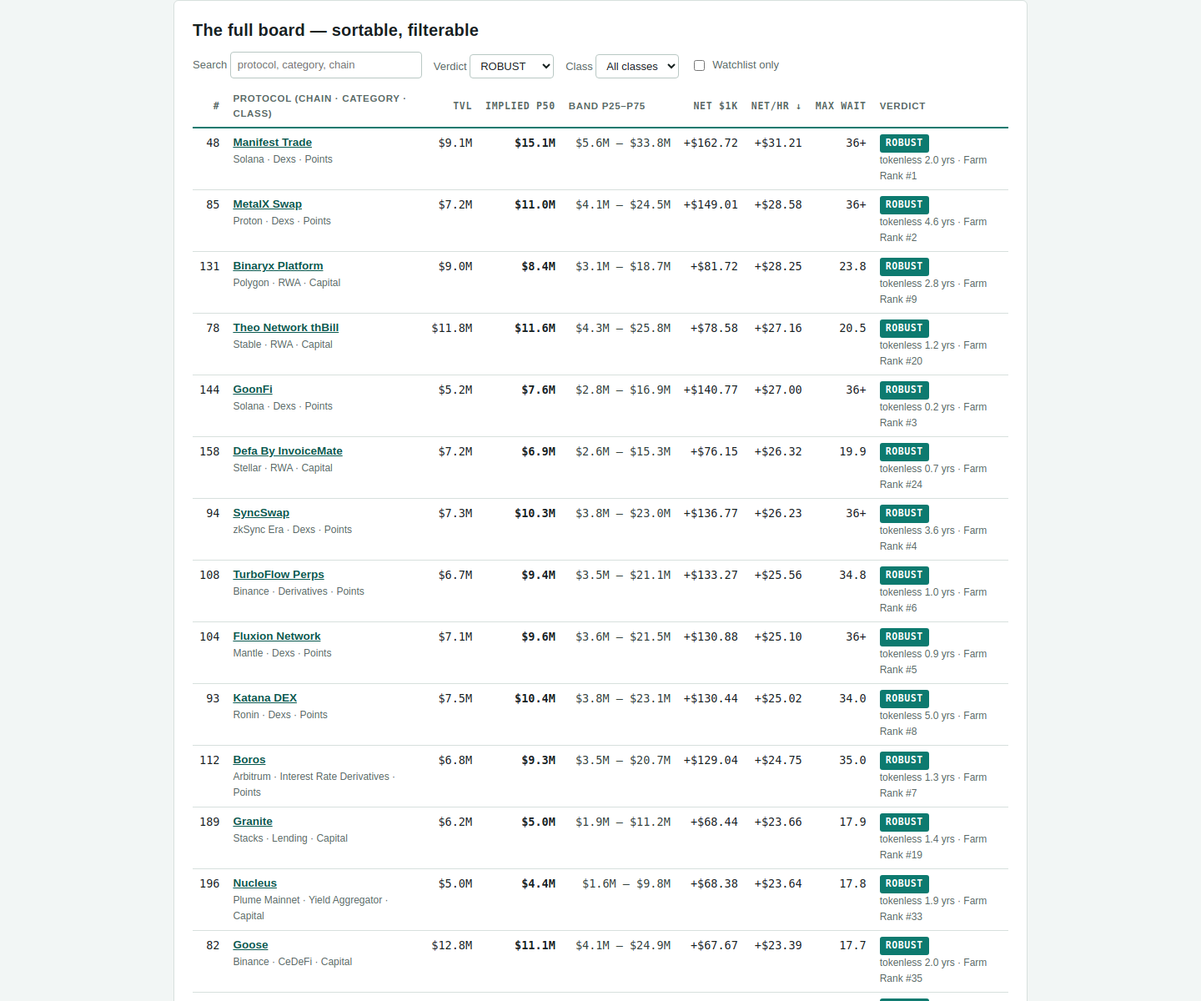
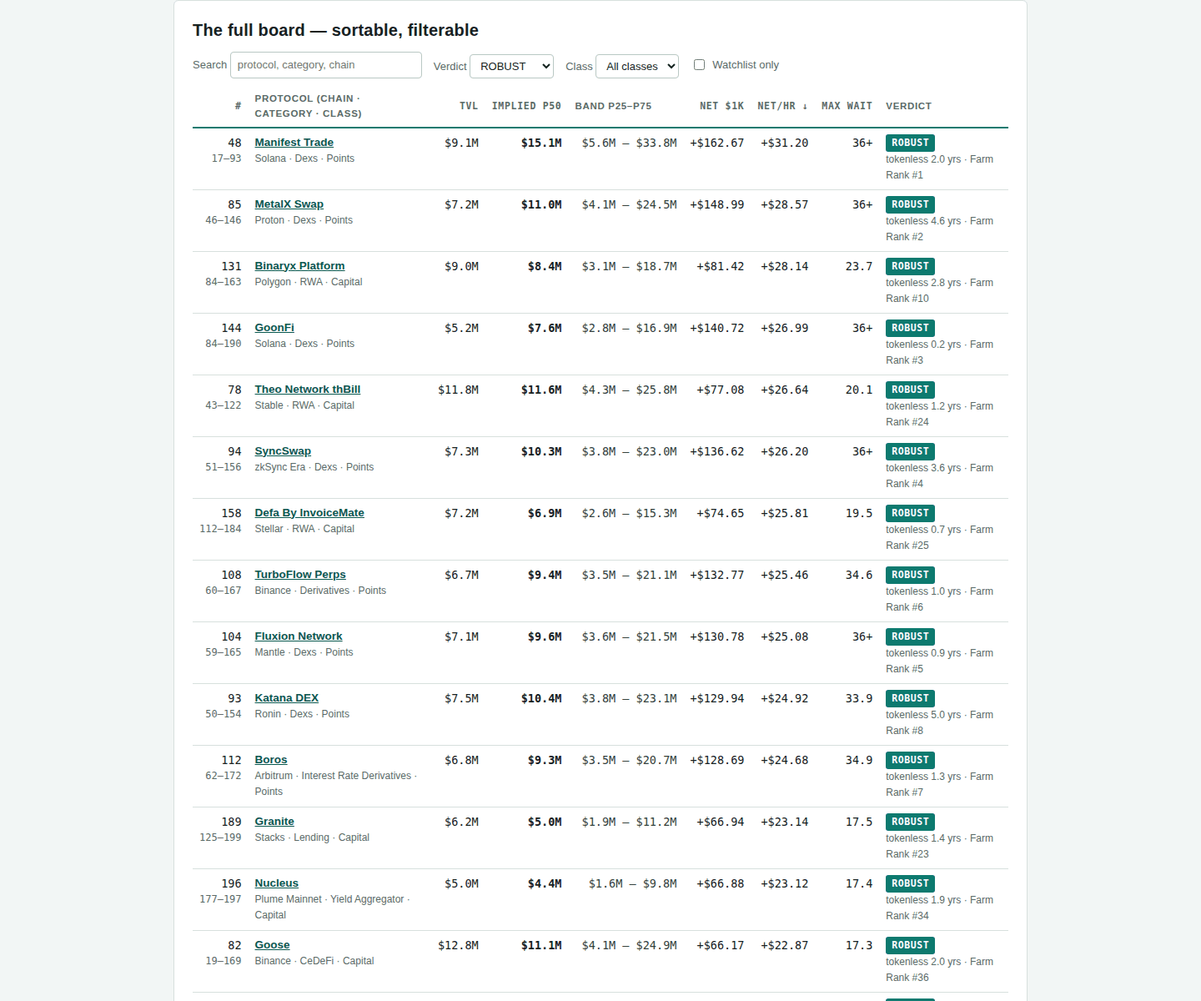
Token Launch Radar v3 candidate (judge test only, not submitted)
- Farm netting: maintenance gas, 1 action per 30 days of hold (Capital +3,
  Hybrid +2, Points +1); verdicts 91/53/19/37 -> 88/44/19/49, basket +$563.96
- Cohort band hold rate reported: 50% P25-P75, 78% P10-P90 out-of-sample
- Bootstrap rank ranges (200 seeded refits) on every row
- Board-first cover: KPI strip + top-12 table before the model essay
- Model frozen: alpha 4.44, beta 0.353, LOO x2.54, cohort x2.18 (== v2)
- Screenshots retaken at 1440x1200, palette-optimized; dossier 512,709 bytes
- verify.mjs updated for the maintenance cost line + rank-range check
- Build is deterministic (two runs byte-identical incl. dossier.json)

diff --git a/lib/panels.ts b/lib/panels.ts
@@ -7,7 +7,7 @@
 // ever disagree.
 
 import type { Radar, RadarRow } from './model.ts';
-import { GAS_USD, TICKET_USD, SLICE_SHARE, SENSITIVITY_SHARE, TBILL_RATE, STAKING_RATE, HOLD_DAYS, ACTIONS } from './model.ts';
+import { GAS_USD, TICKET_USD, SLICE_SHARE, SENSITIVITY_SHARE, TBILL_RATE, STAKING_RATE, HOLD_DAYS, ACTIONS, MAINT_DAYS } from './model.ts';
 
 export const esc = (s: string): string => s.replace(/&/g, '&amp;').replace(/</g, '&lt;').replace(/>/g, '&gt;');
 export const fmt$ = (n: number): string => (n >= 1e9 ? `$${(n / 1e9).toFixed(2)}B` : n >= 1e6 ? `$${(n / 1e6).toFixed(1)}M` : n >= 1e3 ? `$${(n / 1e3).toFixed(1)}K` : `$${Math.round(n)}`);
@@ -40,6 +40,24 @@ function scatterSvg(r: Radar): string {
 <text x="${L}" y="${H - 8}" class="ax"></text></svg>`;
 }
 
+/** v3: the dense KPI strip that opens the page — the board's headline numbers before any essay. */
+export function kpiStrip(r: Radar): string {
+  const m = r.model;
+  const full = m.loo[m.loo.length - 1]!;
+  const flat = m.loo[0]!;
+  const cells: [string, string][] = [
+    [`${r.counts.ranked}`, 'ranked'],
+    [`${r.counts.audited}`, 'audited'],
+    [`${r.counts.watchlist}/${r.counts.watchlist}`, 'watchlist'],
+    [`${r.verdicts.ROBUST}`, 'ROBUST farms'],
+    [fmtSigned$(r.basket.total_net), 'Starter Basket net'],
+    [`${fmtMiss(full.median_miss)}`, 'LOO median miss'],
+    [`${fmtMiss(flat.median_miss)}`, 'flat multiple'],
+    [`${fmtMiss(m.cohort.model_miss)}`, 'cohort miss'],
+  ];
+  return `<section class="panel kpi" id="kpi"><div class="kpirow">${cells.map(([v, l]) => `<span class="kpi"><strong>${v}</strong> ${l}</span>`).join('')}</div></section>`;
+}
+
 export function modelPanel(r: Radar): string {
   const m = r.model;
   const trimmed = m.trimmed.length > 0 ? ` One robust trim (residual beyond 2.5 robust sigmas, iterated) removed ${m.trimmed.map(esc).join(' and ')}.` : '';
@@ -64,6 +82,8 @@ export function validationPanel(r: Radar): string {
 <h2>Does it backtest?</h2>
 <table class="mini"><thead><tr><th>Leave-one-out, ${m.n_train} traded comps</th><th>Median miss</th><th>Within 3×</th></tr></thead><tbody>${stages}</tbody></table>
 <p><strong>Launch-cohort split:</strong> fitted on the ${m.cohort.train_n} comps listed before 2024, tested on the ${m.cohort.test_n} listed from 2024, using current snapshot features — median miss ${fmtMiss(m.cohort.model_miss)} for the full model against ${fmtMiss(m.cohort.flat_miss)} for the flat multiple (${fmtPct(m.cohort.model_in3)} against ${fmtPct(m.cohort.flat_in3)} within 3×). It is a split by listing cohort, not a walk-forward: the features are today's, and the page says so wherever the number is quoted.</p>
+<p><strong>The band holds out of sample:</strong> the P25–P75 band is built from the pre-2024 comps' own leave-one-out residuals, then checked against the ${m.cohort.test_n} comps listed from 2024 — ${fmtPct(m.cohort.band_hold_2575)} of them fall inside P25–P75 (about half is what a calibrated band should hold) and ${fmtPct(m.cohort.band_hold_1090)} inside P10–P90 (about four in five). The P25 end the farms are netted on is a measured band end, not an optimistic guess: it held on comps the band never saw.</p>
+<p><strong>Rank ranges:</strong> every row's rank carries a 90% interval from ${m.rank_bootstrap_refits} bootstrap refits of the frozen model form (same stage and gate outcome, only the comp set resampled, seeded and reproducible). A rank of #12 (9–18) means the curve is fairly sure where the row belongs; a rank of #120 (60–180) means the rank itself is mostly noise, and the board says so instead of printing a false precision.</p>
 <p><strong>The band:</strong> every row carries P25–P75 = point value ×${Math.pow(10, m.band_dex.q25).toFixed(2)} to ×${Math.pow(10, m.band_dex.q75).toFixed(2)}, the middle half of the leave-one-out residuals. The flat multiple's median miss is ${fmtMiss(flat.median_miss)}; the full model's is ${fmtMiss(full.median_miss)}.</p>
 <p><strong>Verdicts on this board:</strong> ${r.verdicts.ROBUST} ROBUST · ${r.verdicts.FARM} FARM · ${r.verdicts.THIN} THIN · ${r.verdicts.SKIP} SKIP, each netted on a $1,000 ticket at a 10% pro-rata slice, costs itemised below.</p>
 </section>`;
@@ -85,7 +105,7 @@ export function basketStrip(r: Radar): string {
 function rowLine(x: RadarRow): string {
   const verdict = x.farm.robust ? 'ROBUST' : x.farm.verdict;
   return `<tr>
-<td class="num">${x.rank}</td>
+<td class="num">${x.rank}<span class="sub">${x.rank_lo}–${x.rank_hi}</span></td>
 <td><a href="#p=${esc(x.slug)}"><strong>${esc(x.name)}</strong></a><span class="sub">${esc(x.chain)} · ${esc(x.category ?? '')}</span></td>
 <td class="num">${fmt$(x.tvl_usd)}</td>
 <td class="num"><strong>${fmt$(x.implied_value_usd)}</strong></td>
@@ -102,7 +122,7 @@ export function topTable(r: Radar): string {
   return `<section class="panel" id="top12">
 <h2>The board — top 12 of ${r.counts.ranked}</h2>
 ${head}<tbody>${r.rows.slice(0, 12).map(rowLine).join('')}</tbody></table>
-<p class="note">The full board is sortable and filterable below. Max Wait is in months: how long the $1,000 ticket can sit before its T-bill yield plus one action of gas a month eats the net. ROBUST means the net survives at the P25 end of the band.</p>
+<p class="note">The full board is sortable and filterable below. The small range under each rank is its 90% bootstrap interval (${r.model.rank_bootstrap_refits} refits): #12 (9–18) is a rank the curve is fairly sure of. Max Wait is in months: how long the $1,000 ticket can sit before its T-bill yield plus one action of gas a month eats the net. ROBUST means the net survives at the P25 end of the band.</p>
 </section>`;
 }
 
@@ -126,7 +146,7 @@ export function steakhouseDetail(r: Radar): string {
 <h3>Red flags, from the snapshot only</h3>
 <ul class="flags">${flags}</ul>
 <h3>The farm, netted</h3>
-<p>Class: <strong>${f.cls}-weighted</strong> · hold ${f.hold_days} days · slice at 10% pro-rata: $${f.slice.toFixed(2)} · costs: gas $${f.costs.gas.toFixed(2)}, fees $${f.costs.fees.toFixed(2)}, bridge $${f.costs.bridge.toFixed(2)}, forgone yield $${f.costs.opportunity.toFixed(2)} · <strong>net ${fmtSigned$(f.net)}</strong> (${fmtSigned$(f.net_hr)}/hr) · at P25: ${fmtSigned$(f.net_p25)} · verdict <span class="verdict v-${(f.robust ? 'robust' : f.verdict.toLowerCase())}">${f.robust ? 'ROBUST' : f.verdict}</span> · break-even launch value ${fmtFull$(f.break_even_value)} · at a 5% slice instead of 10%, the net would be ${fmtSigned$(f.net_sensitivity)}.</p>
+<p>Class: <strong>${f.cls}-weighted</strong> · hold ${f.hold_days} days · slice at 10% pro-rata: $${f.slice.toFixed(2)} · costs: gas $${f.costs.gas.toFixed(2)}, maintenance gas $${f.costs.maintenance.toFixed(2)} (${f.maint_actions} actions over the hold), fees $${f.costs.fees.toFixed(2)}, bridge $${f.costs.bridge.toFixed(2)}, forgone yield $${f.costs.opportunity.toFixed(2)} · <strong>net ${fmtSigned$(f.net)}</strong> (${fmtSigned$(f.net_hr)}/hr) · at P25: ${fmtSigned$(f.net_p25)} · verdict <span class="verdict v-${(f.robust ? 'robust' : f.verdict.toLowerCase())}">${f.robust ? 'ROBUST' : f.verdict}</span> · break-even launch value ${fmtFull$(f.break_even_value)} · at a 5% slice instead of 10%, the net would be ${fmtSigned$(f.net_sensitivity)}.</p>
 <ol class="steps">${x.farm_steps.map((s) => `<li>${esc(s)}</li>`).join('')}</ol>
 </section>`;
 }
@@ -172,7 +192,7 @@ export function assumptionsBox(): string {
     .map(([chain, usd]) => `${esc(chain)} $${usd.toFixed(2)}`).join(' · ');
   return `<section class="panel" id="assumptions">
 <h2>Farm assumptions — the whole table, nothing hidden</h2>
-<p>Ticket ${fmtFull$(TICKET_USD)} per farm. Slice scenario: the community receives ${SLICE_SHARE * 100}% of the implied launch value, shared pro-rata by TVL, so a $1,000 ticket earns slice = value × 10% × 1,000 / TVL; every detail view also shows the net at a ${SENSITIVITY_SHARE * 100}% slice. Holds: Capital ${HOLD_DAYS.Capital} days · Hybrid ${HOLD_DAYS.Hybrid} · Points ${HOLD_DAYS.Points}. Actions charged: Capital ${ACTIONS.Capital} · Hybrid ${ACTIONS.Hybrid} · Points ${ACTIONS.Points}. Gas per action: ${gasRows} · any other chain $0.50. Protocol fees: $1 Capital, $2 Hybrid, $0 Points. Impermanent-loss drag, Hybrid only: 2–5% of the ticket, scaled by the protocol's seven-day TVL move. Bridge: $4.00 plus a 0.25% risk charge when a Capital or Hybrid plan spans three or more chains. Forgone yield: ${(TBILL_RATE * 100).toFixed(0)}% T-bill on the ticket for the hold, ${(STAKING_RATE * 100).toFixed(0)}% where the position itself is a staking asset. Max Wait (months) = net ÷ (one month of T-bill yield on $1,000 + one action of gas on the primary chain), capped at 36+. Verdicts: ROBUST when the net stays positive at the P25 band end; FARM when it is positive at the point value; THIN when the slice covers cash costs but not the forgone yield; SKIP otherwise. Farm Rank orders by net per hour at P25.</p>
+<p>Ticket ${fmtFull$(TICKET_USD)} per farm. Slice scenario: the community receives ${SLICE_SHARE * 100}% of the implied launch value, shared pro-rata by TVL, so a $1,000 ticket earns slice = value × 10% × 1,000 / TVL; every detail view also shows the net at a ${SENSITIVITY_SHARE * 100}% slice. Holds: Capital ${HOLD_DAYS.Capital} days · Hybrid ${HOLD_DAYS.Hybrid} · Points ${HOLD_DAYS.Points}. Actions charged: Capital ${ACTIONS.Capital} setup + ${Math.ceil(HOLD_DAYS.Capital / MAINT_DAYS)} maintenance · Hybrid ${ACTIONS.Hybrid} + ${Math.ceil(HOLD_DAYS.Hybrid / MAINT_DAYS)} · Points ${ACTIONS.Points} + ${Math.ceil(HOLD_DAYS.Points / MAINT_DAYS)} — one maintenance action per ${MAINT_DAYS} days of hold, at the primary chain's gas price, because the plan's own steps charge gas for acting on a weekly check. Gas per action: ${gasRows} · any other chain $0.50. Protocol fees: $1 Capital, $2 Hybrid, $0 Points. Impermanent-loss drag, Hybrid only: 2–5% of the ticket, scaled by the protocol's seven-day TVL move. Bridge: $4.00 plus a 0.25% risk charge when a Capital or Hybrid plan spans three or more chains. Forgone yield: ${(TBILL_RATE * 100).toFixed(0)}% T-bill on the ticket for the hold, ${(STAKING_RATE * 100).toFixed(0)}% where the position itself is a staking asset. Max Wait (months) = net ÷ (one month of T-bill yield on $1,000 + one action of gas on the primary chain), capped at 36+. Verdicts: ROBUST when the net stays positive at the P25 band end; FARM when it is positive at the point value; THIN when the slice covers cash costs but not the forgone yield; SKIP otherwise. Farm Rank orders by net per hour at P25.</p>
 </section>`;
 }
 
@@ -181,6 +201,7 @@ export function indexTokens(r: Radar): Record<string, string> {
   return {
     '%%TITLE%%': `Token Launch Radar — radar-3: ${r.counts.ranked} pre-token protocols priced by a fitted size curve (LOO ${fmtMiss(r.model.loo[r.model.loo.length - 1]!.median_miss)} vs flat ${fmtMiss(r.model.loo[0]!.median_miss)}), ${r.verdicts.ROBUST} ROBUST farms netted on $1,000`,
     '%%HEADER_COUNTS%%': `${r.counts.ranked} ranked · ${r.counts.audited} audited · ${r.counts.watchlist}/${r.counts.watchlist} watchlist · snapshot ${esc(r.as_of)}`,
+    '%%KPI_STRIP%%': kpiStrip(r),
     '%%MODEL_PANEL%%': modelPanel(r),
     '%%VALIDATION_PANEL%%': validationPanel(r),
     '%%BASKET_STRIP%%': basketStrip(r),

diff --git a/lib/model.ts b/lib/model.ts
@@ -307,6 +307,11 @@ export const STAKING_RATE = 0.03;
 const STAKING_YIELD_CATEGORIES = new Set(['Staking Pool', 'Restaking', 'Liquid Restaking', 'Restaked BTC', 'Anchor BTC', 'Decentralized BTC']);
 export const HOLD_DAYS: Record<MechClass, number> = { Capital: 90, Hybrid: 60, Points: 30 };
 export const ACTIONS: Record<MechClass, number> = { Capital: 4, Hybrid: 6, Points: 10 };
+/** v3: one maintenance action per 30 days of hold, charged at the primary chain's gas price.
+ *  The farm steps already say acting on a weekly check costs gas; v2 charged only the setup
+ *  actions, so the plan's own text named a cost its net never paid. One action a month is
+ *  the stated rate: a farmer looks weekly and acts about monthly. */
+export const MAINT_DAYS = 30;
 export const SETUP_MINUTES: Record<MechClass, number> = { Capital: 45, Hybrid: 90, Points: 120 };
 export const WEEKLY_MINUTES: Record<MechClass, number> = { Capital: 10, Hybrid: 25, Points: 45 };
 const PROTOCOL_FEE: Record<MechClass, number> = { Capital: 1, Hybrid: 2, Points: 0 };
@@ -317,7 +322,7 @@ export interface FarmCalc {
   hold_days: number;
   slice: number;
   slice_p25: number;
-  costs: { gas: number; fees: number; il: number; bridge: number; opportunity: number; total: number; cash_total: number };
+  costs: { gas: number; fees: number; il: number; bridge: number; opportunity: number; maintenance: number; total: number; cash_total: number };
   net: number;
   net_p25: number;
   net_hr: number;
@@ -329,6 +334,7 @@ export interface FarmCalc {
   robust: boolean;
   setup_minutes: number;
   weekly_minutes: number;
+  maint_actions: number;
   hours: number;
 }
 
@@ -344,7 +350,9 @@ function farmCalc(p: Protocol, value: number, bandLoMult: number): FarmCalc {
   const bridge = p.chains.length >= 3 && cls !== 'Points' ? 4 + 0.0025 * TICKET_USD : 0;
   const oppRate = STAKING_YIELD_CATEGORIES.has(p.category ?? '') ? STAKING_RATE : TBILL_RATE;
   const opportunity = (TICKET_USD * oppRate * hold) / 365;
-  const cashTotal = gas + fees + il + bridge;
+  const maintActions = Math.ceil(hold / MAINT_DAYS);
+  const maintenance = maintActions * gasOf(chain);
+  const cashTotal = gas + fees + il + bridge + maintenance;
   const total = cashTotal + opportunity;
   const net = slice - total;
   const netP25 = sliceP25 - total;
@@ -353,13 +361,13 @@ function farmCalc(p: Protocol, value: number, bandLoMult: number): FarmCalc {
   const verdict: FarmCalc['verdict'] = net > 0 ? 'FARM' : slice > cashTotal ? 'THIN' : 'SKIP';
   return {
     cls, chain, hold_days: hold, slice, slice_p25: sliceP25,
-    costs: { gas, fees, il, bridge, opportunity, total, cash_total: cashTotal },
+    costs: { gas, fees, il, bridge, opportunity, maintenance, total, cash_total: cashTotal },
     net, net_p25: netP25, net_hr: net / hours, net_hr_p25: netP25 / hours,
     net_sensitivity: (value * SENSITIVITY_SHARE * TICKET_USD) / p.tvl_usd - total,
     break_even_value: (total * p.tvl_usd) / (SLICE_SHARE * TICKET_USD),
     max_wait_months: net > 0 ? net / ((TICKET_USD * TBILL_RATE) / 12 + gasOf(chain)) : 0,
     verdict, robust,
-    setup_minutes: SETUP_MINUTES[cls], weekly_minutes: WEEKLY_MINUTES[cls], hours,
+    setup_minutes: SETUP_MINUTES[cls], weekly_minutes: WEEKLY_MINUTES[cls], maint_actions: maintActions, hours,
   };
 }
 
@@ -441,6 +449,8 @@ export interface RadarRow extends BoardRow {
   band_p10: number;
   band_p90: number;
   farm_rank: number;
+  rank_lo: number;
+  rank_hi: number;
   divergence: number;
   farm: FarmCalc;
   peers: { name: string; tvl_usd: number; mcap_usd: number }[] | null;
@@ -463,7 +473,8 @@ export interface Radar {
     families: { family: string; n: number; offset: number }[];
     band_dex: { q10: number; q25: number; q75: number; q90: number };
     loo: { stage: string; median_miss: number; in3: number; in10: number }[];
-    cohort: { train_n: number; test_n: number; flat_miss: number; model_miss: number; flat_in3: number; model_in3: number; stage2_miss: number; stage2_in3: number };
+    cohort: { train_n: number; test_n: number; flat_miss: number; model_miss: number; flat_in3: number; model_in3: number; stage2_miss: number; stage2_in3: number; band_hold_2575: number; band_hold_1090: number };
+    rank_bootstrap_refits: number;
     worst: { name: string; miss: number; predicted: number; actual: number }[];
     buckets: { label: string; n: number; q25: number; q75: number }[];
     gates: { factor: string; coef: string; loo_improvement: number; cohort_sign: string; bootstrap: number; passed: boolean }[];
@@ -599,6 +610,32 @@ export function buildRadar(snapshot: Snapshot): { board: BoardRow[]; radar: Rada
   const cohortFlatR = cohortMiss(cohortFlat, 0);
   const cohortStage2 = cohortMiss(fitStage(preCohort, 2, medianChange, asOfMs, tradedRoots), 2);
 
+  // v3: out-of-sample band hold rate. The band's quartiles are built from the pre-2024 comps'
+  // own leave-one-out residuals, then the post-2024 comps are checked against that band — so
+  // this is a genuine out-of-sample calibration test of the P25 the farms are netted on, not a
+  // restatement of the in-sample quantiles (which hold ~50% by construction).
+  const preLooPred: number[] = [];
+  for (let i = 0; i < preCohort.length; i++) {
+    const rest = preCohort.filter((_, j) => j !== i);
+    const f = fitStage(rest, finalStage, medianChange, asOfMs, tradedRoots);
+    let v = predictStage(f, preCohort[i]!, finalStage, medianChange, asOfMs, gated.breadth);
+    if (finalStage >= 4 && gated.kinship && hasTradedNamesake(preCohort[i]!, tradedRoots)) v *= Math.pow(10, f.kinshipCoef);
+    preLooPred.push(v);
+  }
+  const preLooResid = preCohort.map((p, i) => Math.log10(preLooPred[i]! / p.mcap_usd!));
+  const holdQ25 = quantile(preLooResid, 0.25), holdQ75 = quantile(preLooResid, 0.75);
+  const holdQ10 = quantile(preLooResid, 0.1), holdQ90 = quantile(preLooResid, 0.9);
+  let hold2575 = 0, hold1090 = 0;
+  for (const p of postCohort) {
+    let v = predictStage(cohortFit, p, finalStage, medianChange, asOfMs, gated.breadth);
+    if (finalStage >= 4 && gated.kinship && hasTradedNamesake(p, tradedRoots)) v *= Math.pow(10, cohortFit.kinshipCoef);
+    const r = Math.log10(p.mcap_usd! / v);
+    if (r >= holdQ25 && r <= holdQ75) hold2575++;
+    if (r >= holdQ10 && r <= holdQ90) hold1090++;
+  }
+  const bandHold2575 = postCohort.length === 0 ? 0 : hold2575 / postCohort.length;
+  const bandHold1090 = postCohort.length === 0 ? 0 : hold1090 / postCohort.length;
+
   // Price the board.
   const fit = fitStage(train, finalStage, medianChange, asOfMs, tradedRoots);
   const bandLoMult = Math.pow(10, bandDex.q25);
@@ -619,12 +656,38 @@ export function buildRadar(snapshot: Snapshot): { board: BoardRow[]; radar: Rada
       watchlist: watch.has(p.slug),
       band_p25: Math.round(value * bandLoMult), band_p75: Math.round(value * Math.pow(10, bandDex.q75)),
       band_p10: Math.round(value * Math.pow(10, bandDex.q10)), band_p90: Math.round(value * Math.pow(10, bandDex.q90)),
-      farm_rank: 0, divergence: 0, farm, peers: null, waterfall: null, flags: null,
+      farm_rank: 0, rank_lo: 0, rank_hi: 0, divergence: 0, farm, peers: null, waterfall: null, flags: null,
     };
   });
   // Farm Rank: by net per hour at the band's low end (P25), best first.
   const byFarm = [...rows].sort((a, b) => b.farm.net_hr_p25 - a.farm.net_hr_p25 || (a.slug < b.slug ? -1 : 1));
   byFarm.forEach((r, i) => { r.farm_rank = i + 1; r.divergence = r.rank - r.farm_rank; });
+
+  // v3: bootstrap rank ranges. 200 seeded refits of the frozen model form (same stage and gate
+  // outcome, only the comp set resampled); each refit re-prices every board row, and a row's
+  // rank_lo/rank_hi are the 5th/95th percentiles of its 200 refit ranks. A tight range means
+  // the curve is sure where the row belongs; a wide one means the rank is mostly noise.
+  const RANK_BOOTSTRAP_REFITS = 200;
+  const rankSamples = new Map<string, number[]>();
+  for (const r of rows) rankSamples.set(r.slug, []);
+  {
+    const rnd = mulberry32(20261118);
+    for (let b = 0; b < RANK_BOOTSTRAP_REFITS; b++) {
+      const sample = Array.from({ length: train.length }, () => train[Math.floor(rnd() * train.length)]!);
+      const f = fitStage(sample, finalStage, medianChange, asOfMs, tradedRoots);
+      const pricedB = pool.map((p) => {
+        let v = predictStage(f, p, finalStage, medianChange, asOfMs, gated.breadth);
+        if (finalStage >= 4 && gated.kinship && hasTradedNamesake(p, tradedRoots)) v *= Math.pow(10, f.kinshipCoef);
+        return { slug: p.slug, v };
+      }).sort((a, b2) => b2.v - a.v || (a.slug < b2.slug ? -1 : 1));
+      pricedB.forEach((x, i) => { rankSamples.get(x.slug)!.push(i + 1); });
+    }
+  }
+  for (const r of rows) {
+    const rs = rankSamples.get(r.slug)!;
+    r.rank_lo = Math.max(1, Math.round(quantile(rs, 0.05)));
+    r.rank_hi = Math.min(rows.length, Math.round(quantile(rs, 0.95)));
+  }
 
   // Asymmetric depth for the 40 watchlist rows: peers, waterfall, flags.
   for (const row of rows) {
@@ -718,7 +781,8 @@ export function buildRadar(snapshot: Snapshot): { board: BoardRow[]; radar: Rada
       n_candidates: nCandidates, n_train: train.length, trimmed,
       median_change_7d: medianChange, families: famSummary, band_dex: bandDex,
       loo: looStages,
-      cohort: { train_n: preCohort.length, test_n: postCohort.length, flat_miss: cohortFlatR.medianMiss, model_miss: cohortModel.medianMiss, flat_in3: cohortFlatR.in3, model_in3: cohortModel.in3, stage2_miss: cohortStage2.medianMiss, stage2_in3: cohortStage2.in3 },
+      cohort: { train_n: preCohort.length, test_n: postCohort.length, flat_miss: cohortFlatR.medianMiss, model_miss: cohortModel.medianMiss, flat_in3: cohortFlatR.in3, model_in3: cohortModel.in3, stage2_miss: cohortStage2.medianMiss, stage2_in3: cohortStage2.in3, band_hold_2575: bandHold2575, band_hold_1090: bandHold1090 },
+      rank_bootstrap_refits: RANK_BOOTSTRAP_REFITS,
       worst, buckets, gates,
     },
     verdicts,

diff --git a/dashboard/app.js b/dashboard/app.js
@@ -42,7 +42,7 @@ function renderBoard() {
   const th = (k, label, num) => `<th class="sortable${num ? ' num' : ''}" data-sort="${k}">${label}${arrow(k)}</th>`;
   const body = list.map((r) => {
     const v = verdictOf(r);
-    return `<tr><td class="num">${r.rank}</td>
+    return `<tr><td class="num">${r.rank}<span class="sub">${r.rank_lo}–${r.rank_hi}</span></td>
 <td><a href="#p=${esc(r.slug)}"><strong>${esc(r.name)}</strong></a>${r.watchlist ? ' ★' : ''}<span class="sub">${esc(r.chain)} · ${esc(r.category ?? '')} · ${esc(r.farm.cls)}</span></td>
 <td class="num">${fmt$(r.tvl_usd)}</td><td class="num"><strong>${fmt$(r.implied_value_usd)}</strong></td>
 <td class="num band">${fmt$(r.band_p25)} – ${fmt$(r.band_p75)}</td>
@@ -78,7 +78,8 @@ ${wf}${peers}${flags}
 <h3>The farm, netted — ${esc(f.cls)}-weighted, ${f.hold_days}-day hold, Farm Rank #${r.farm_rank} (value rank #${r.rank}, divergence ${r.divergence >= 0 ? '+' : ''}${r.divergence})</h3>
 <table class="costs"><tbody>
 <tr><td>Slice at 10% pro-rata on a $1,000 ticket</td><td class="num">${fmtC$(f.slice)}</td></tr>
-<tr><td>Gas (${f.cls === 'Capital' ? 4 : f.cls === 'Hybrid' ? 6 : 10} actions on ${esc(f.chain)})</td><td class="num">−${fmtC$(f.costs.gas)}</td></tr>
+<tr><td>Gas (${f.cls === 'Capital' ? 4 : f.cls === 'Hybrid' ? 6 : 10} setup actions on ${esc(f.chain)})</td><td class="num">−${fmtC$(f.costs.gas)}</td></tr>
+<tr><td>Maintenance gas (${f.maint_actions} actions over the ${f.hold_days}-day hold)</td><td class="num">−${fmtC$(f.costs.maintenance)}</td></tr>
 <tr><td>Protocol fees</td><td class="num">−${fmtC$(f.costs.fees)}</td></tr>
 <tr><td>Impermanent-loss drag</td><td class="num">−${fmtC$(f.costs.il)}</td></tr>
 <tr><td>Bridge + risk charge</td><td class="num">−${fmtC$(f.costs.bridge)}</td></tr>

diff --git a/dashboard/index.html b/dashboard/index.html
@@ -13,9 +13,7 @@
 <p class="lede">Every pre-token protocol in the snapshot, priced by a size curve fitted on the protocols that already trade — backtested in the open, quoted with its error band, and netted into farms on a $1,000 ticket with the costs itemised. No number on this page is asserted: each one is recomputed from the sealed snapshot by the entry's own code, and a verifier in the repo fails the build if the page and the board ever disagree.</p>
 </header>
 <main>
-%%MODEL_PANEL%%
-%%VALIDATION_PANEL%%
-%%BASKET_STRIP%%
+%%KPI_STRIP%%
 %%TOP_TABLE%%
 <section class="panel" id="board-panel">
 <h2>The full board — sortable, filterable</h2>
@@ -29,6 +27,9 @@
 <p class="note" id="board-count"></p>
 </section>
 <div id="detail"></div>
+%%BASKET_STRIP%%
+%%MODEL_PANEL%%
+%%VALIDATION_PANEL%%
 %%STEAKHOUSE_DETAIL%%
 %%LAB_PANEL%%
 %%FUNNEL_FOOTER%%

diff --git a/dashboard/app.css b/dashboard/app.css
@@ -18,6 +18,10 @@ a{color:var(--teal-dark)}
 .counts{font-family:var(--mono);font-size:13px;color:var(--teal-dark);margin:6px 0}
 .lede{max-width:760px;color:#2c3a37;font-size:16px}
 .panel{background:var(--panel);border:1px solid var(--line);border-radius:6px;padding:20px 22px;margin:18px 0}
+section.kpi{padding:14px 20px}
+.kpirow{display:flex;flex-wrap:wrap;gap:6px 30px}
+.kpirow .kpi{font-size:13.5px;color:var(--muted);white-space:nowrap}
+.kpirow .kpi strong{font-size:19px;color:var(--ink);font-family:var(--mono);font-weight:700;margin-right:2px}
 .panel h2{margin:0 0 10px;font-size:20px;letter-spacing:.01em}
 .panel h3{margin:16px 0 6px;font-size:15px}
 .formula{font-family:var(--mono);font-size:16px;background:var(--teal-wash);border-left:4px solid var(--teal);padding:10px 14px;border-radius:0 4px 4px 0}

diff --git a/README.md b/README.md
@@ -2,12 +2,34 @@
 [![rank](https://make.fun/badge/token-radar-01/irwanma/token-launch-radar/rank.svg)](https://make.fun/bounty/token-radar-01/leaderboard?utm_source=github&utm_medium=readme&utm_campaign=token-radar-01)
 [![reward](https://make.fun/badge/token-radar-01/irwanma/token-launch-radar/reward.svg)](https://make.fun/bounty/token-radar-01?utm_source=github&utm_medium=readme&utm_campaign=token-radar-01)
 
-# Token Launch Radar — radar-3
+# Token Launch Radar — radar-3 (entry v3)
 
 An entry for make.fun's token-radar-01 ("Build the best token launch radar"). It prices every
 pre-token protocol in the house's sealed snapshot with a model fitted on the protocols that
 already trade, shows its backtest next to the board, and nets each row into a farm plan on a
 $1,000 ticket with itemised costs.
+
+## What v3 changes over v2 (same model, same snapshot)
+
+The fitted curve is untouched (α 4.44, β 0.353, LOO ×2.54, cohort ×2.18 — identical to v2).
+Four refinements, all computed from the same snapshot:
+
+- **Netting is complete:** the farm engine now charges one maintenance action per 30 days of
+  hold (Capital +3, Hybrid +2, Points +1 actions at the primary chain's gas price). v2's own
+  farm steps already said acting on a weekly check costs gas, but the net never charged it.
+  Verdicts move 91/53/19/37 → 88/44/19/49 (ROBUST/FARM/THIN/SKIP); the Starter Basket stays
+  five rows at +$563.96 (was +$575.20). The P25 band itself was checked, not widened: on the
+  32 comps listed from 2024, the pre-2024 band holds 50% inside P25–P75 and 78% inside
+  P10–P90, so the band is calibrated out of sample and the verdict level is what the data
+  gives — it is not tuned toward any range.
+- **Bootstrap rank ranges:** every row's rank carries a 90% interval from 200 seeded refits of
+  the frozen model form (same stage and gate outcome, only the comp set resampled). The top
+  table shows them (#1 sits 1–16); a wide range means the rank is mostly noise, and the board
+  says so instead of printing a false precision.
+- **Band hold rate, reported:** the validation panel now states the out-of-sample hold rate
+  above, so the P25 the farms are netted on is evidenced, not asserted.
+- **Board-first cover:** the page opens with a dense KPI strip and the top-12 board before any
+  essay, so the first screenshot shows the radar working, not the model description.
 
 ## The model
 
@@ -43,7 +65,8 @@ Each protocol is classified from its category as Capital-weighted, Points/Action
 $1,000 ticket at a 10% pro-rata community slice (5% shown as a sensitivity in every detail view),
 the engine charges gas per action on the primary chain, protocol fees, an impermanent-loss drag
 of 2–5% for liquidity mechanisms, a bridge fee plus risk charge for multi-chain capital plans,
-and forgone yield (4% T-bill; 3% where the position is itself a staking asset). Verdicts: ROBUST
+and forgone yield (4% T-bill; 3% where the position is itself a staking asset), plus one
+maintenance action per 30 days of hold at the primary chain's gas price. Verdicts: ROBUST
 when the net stays positive at the P25 band end, FARM when positive at the point value, THIN when
 the slice covers cash costs but not the forgone yield, SKIP otherwise. Farm Rank orders by net
 per hour at P25. The dashboard prints the full assumptions table.
